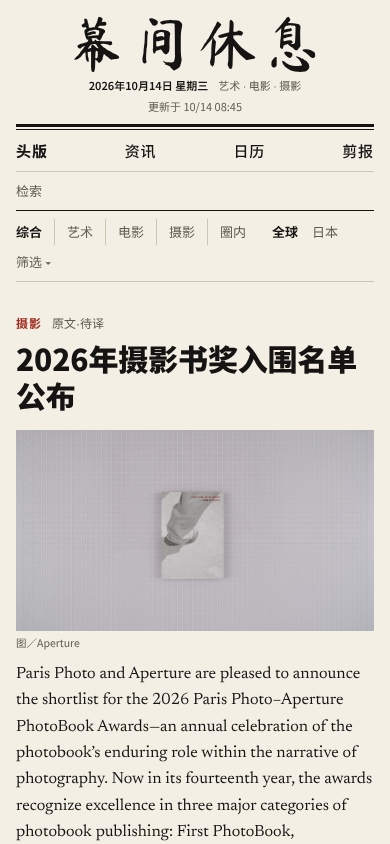
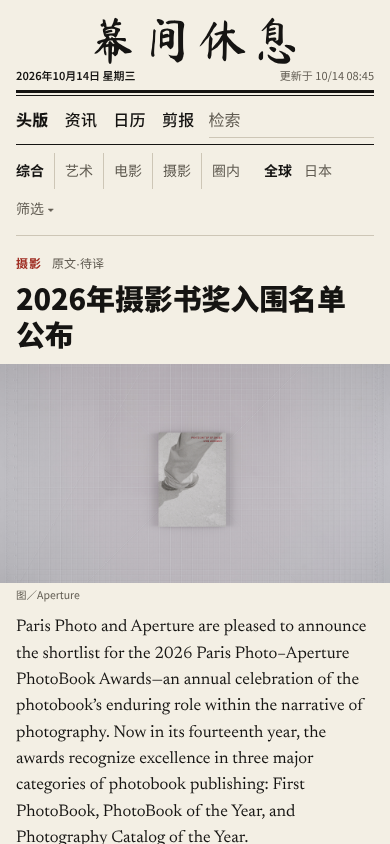
T039: Improve phone reading experience
Sticky section bar that hides while reading down and returns on scroll up,
reading progress line, list position restored after reading, thumbnail-right
story lists, full-bleed article images, 16px form controls against iOS zoom
and larger tap targets. Desktop layout unchanged.

Claude-Session: https://claude.ai/code/session_01QRydwVozSh6Dzffk4MZF67

diff --git a/frontend/app.js b/frontend/app.js
@@ -212,10 +212,10 @@
     const original = blocks.length ? `<div class="reader-document" lang="${e(row.language)}"><p class="reading-note">${row.article_author ? `作者：${e(row.article_author)} · ` : ''}来源：${e(sourceName(row))} · 正文采集于 ${e((row.article_fetched_at || '').slice(0,10))}</p>${partial ? '<p class="article-status">仅采集到公开可见的正文部分；来源的订阅内容或超出采集上限的内容未包含。</p>' : ''}${row.article_reason?.startsWith('cached_body_after_') ? '<p class="article-status">本次更新未成功，正在显示此前保存的原文。</p>' : ''}${headerImage}${newspaperBody(blocks)}</div>` : `<div class="original-unavailable" role="status"><h2>正文尚未取得</h2><p>${statusMessage}</p>${row.excerpt_original ? `<p class="reading-note">当前仅有来源短摘录：</p><p class="original-excerpt" lang="${e(row.language)}">${e(row.excerpt_original)}</p>` : ''}</div>`;
     let notes = []; try { notes = JSON.parse(row.editorial_notes_json || '[]'); } catch {}
     const chinese = translatedBlocks.length ? `<div class="reader-document" lang="zh-CN"><p class="reading-note">${row.language === 'zh' ? '来源原文为中文。' : !C.editorialReady(row) && C.machineReady(row) ? '自动机翻 · 免费离线模型 · 未经人工审核，专名与细节请对照原文。' : row.editorial_status === 'translated' ? 'AI 按全文语境翻译。' : 'AI 按全文语境翻译并校对 · 非人工译者审核。'}</p>${partial ? '<p class="article-status">来源仅取得公开部分，译文也仅包含这部分内容。</p>' : ''}${row.language !== 'zh' && notes.length ? `<div class="translation-notes"><h2>译名与表达说明</h2>${notes.map(note => `<p>${e(note)}</p>`).join('')}</div>` : ''}${headerImage}${newspaperBody(translatedBlocks, true)}</div>` : `<p class="article-status original-pending" role="status">${blocks.length ? `原文·待译 · 以下为${e(C.languageLabels[row.language] || '外文')}原文，中文译文尚未完成。` : '正文尚未取得。'}</p>${original}`;
-    return `<article class="reader-page"><div class="reader-toolbar"><button class="text-link" data-action="reader-back">‹ 返回</button><button class="text-link reader-save" data-save-type="content" data-save-id="${e(row.id)}">${saved ? '★ 已剪报' : '☆ 剪报'}</button></div><div class="eyebrow"><span class="channel-tag">${e(C.channels[row.channel] || '文化')}</span>${e(sourceName(row))} · ${e(publicationLabel(row))}</div>${(() => { const title = state.readerTab === 'original' ? row.title_original : C.displayTitle(row); return `<h1 lang="${e(title === row.title_original && row.language !== 'zh' ? row.language : 'zh-CN')}">${e(title)}</h1>`; })()}<div class="reader-tabs" role="tablist" aria-label="阅读内容"><button role="tab" aria-selected="${state.readerTab === 'chinese'}" data-reader-tab="chinese">${translatedBlocks.length ? '中文' : '正文'}</button><button role="tab" aria-selected="${state.readerTab === 'original'}" data-reader-tab="original">原文</button><button role="tab" aria-selected="${state.readerTab === 'info'}" data-reader-tab="info">资料</button></div><div class="reader-content" role="tabpanel">${state.readerTab === 'original' ? original : state.readerTab === 'chinese' ? chinese : `<div class="reader-information">${meta(row)}${C.priorityOf(row) ? `<p>重要程度：${e({high:'高',medium:'中',normal:'一般'}[C.priorityOf(row).importance])} · 翻译优先级：${e(C.priorityOf(row).label)} · ${e(C.priorityOf(row).reasons.join('；'))}</p>` : ''}<p>原始来源：${e(sourceName(row))} · ${e(C.languageLabels[row.language] || row.language)}</p>${dataset.content_events.filter(link => link.content_id === row.id).map(link => dataset.events.find(item => item.id === link.event_id)).filter(Boolean).map(item => eventRow(item)).join('') || '<p>这篇资讯没有关联的日历活动。</p>'}</div>`}</div>${!row.is_demo && url ? `<div class="reader-source-link"><span>原文</span><a href="${e(url)}" target="_blank" rel="noopener noreferrer">${e(url)}</a></div>` : ''}</article>`;
+    return `<article class="reader-page"><div class="reader-toolbar"><button class="text-link" data-action="reader-back">‹ 返回</button><button class="text-link reader-save" data-save-type="content" data-save-id="${e(row.id)}">${saved ? '★ 已剪报' : '☆ 剪报'}</button></div><div class="eyebrow"><span class="channel-tag">${e(C.channels[row.channel] || '文化')}</span>${e(sourceName(row))} · ${e(publicationLabel(row))}</div>${(() => { const title = state.readerTab === 'original' ? row.title_original : C.displayTitle(row); return `<h1 lang="${e(title === row.title_original && row.language !== 'zh' ? row.language : 'zh-CN')}">${e(title)}</h1>`; })()}<div class="reader-tabs" role="tablist" aria-label="阅读内容"><button role="tab" aria-selected="${state.readerTab === 'chinese'}" data-reader-tab="chinese">${translatedBlocks.length ? '中文' : '正文'}</button><button role="tab" aria-selected="${state.readerTab === 'original'}" data-reader-tab="original">原文</button><button role="tab" aria-selected="${state.readerTab === 'info'}" data-reader-tab="info">资料</button></div><div class="reader-content" role="tabpanel">${state.readerTab === 'original' ? original : state.readerTab === 'chinese' ? chinese : `<div class="reader-information">${meta(row)}${C.priorityOf(row) ? `<p>重要程度：${e({high:'高',medium:'中',normal:'一般'}[C.priorityOf(row).importance])} · 翻译优先级：${e(C.priorityOf(row).label)} · ${e(C.priorityOf(row).reasons.join('；'))}</p>` : ''}<p>原始来源：${e(sourceName(row))} · ${e(C.languageLabels[row.language] || row.language)}</p>${dataset.content_events.filter(link => link.content_id === row.id).map(link => dataset.events.find(item => item.id === link.event_id)).filter(Boolean).map(item => eventRow(item)).join('') || '<p>这篇资讯没有关联的日历活动。</p>'}</div>`}</div>${!row.is_demo && url ? `<div class="reader-source-link"><span>原文</span><a href="${e(url)}" target="_blank" rel="noopener noreferrer">${e(url)}</a></div>` : ''}<div class="reader-toolbar reader-end"><button class="text-link" data-action="reader-back">‹ 返回</button><button class="text-link reader-save" data-save-type="content" data-save-id="${e(row.id)}">${saved ? '★ 已剪报' : '☆ 剪报'}</button></div></article>`;
   }
   function openReader(id, route = true) {
-    if (state.view !== 'reader') state.readerReturn = state.view;
+    if (state.view !== 'reader') { state.readerReturn = state.view; state.readerScroll = window.scrollY; }
     state.readerId = id; state.readerTab = 'chinese'; state.view = 'reader';
     if ($('detail-dialog').open) $('detail-dialog').close();
     if (route) history.pushState(null, '', C.readerRoute(id));
@@ -252,7 +252,7 @@
         bookmarks.unshift(row);
       }
       const persisted = server || writeLocal();
-      if (state.view === 'reader') { nav(); const button = document.querySelector('.reader-save'); if (button) button.textContent = findBookmark('content', state.readerId) ? '★ 已剪报' : '☆ 剪报'; }
+      if (state.view === 'reader') { nav(); document.querySelectorAll('.reader-save').forEach(button => { button.textContent = findBookmark('content', state.readerId) ? '★ 已剪报' : '☆ 剪报'; }); }
       else render();
       if (persisted) toast(old ? '已移出剪报' : '已加入剪报');
       if ($('detail-dialog').open) showDetail($('detail-dialog').dataset.type, $('detail-dialog').dataset.recordId);
@@ -285,7 +285,7 @@
     else if (button.dataset.action === 'editorial-news') { state.view = 'explore'; state.editorialOnly = true; state.channel = state.kind = state.country = state.city = state.language = state.priority = 'all'; state.query = ''; $('search').value = ''; render(); }
     else if (button.dataset.action === 'all-news') { state.editorialOnly = false; state.priority = 'all'; state.view = 'explore'; render(); }
     else if (button.dataset.readerTab) { state.readerTab = button.dataset.readerTab; render(); }
-    else if (button.dataset.action === 'reader-back') { state.view = state.readerReturn || 'today'; render(); window.scrollTo({ top: 0 }); }
+    else if (button.dataset.action === 'reader-back') { state.view = state.readerReturn || 'today'; render(); window.scrollTo({ top: state.readerScroll || 0 }); }
     else if (button.dataset.channel) { state.channel = button.dataset.channel; state.kind = 'all'; render(); }
     else if (button.dataset.kind) { state.kind = state.kind === button.dataset.kind ? 'all' : button.dataset.kind; state.channel = 'all'; state.view = 'explore'; render(); }
     else if (button.dataset.detail) showDetail(button.dataset.type, button.dataset.detail);
@@ -370,7 +370,19 @@
   $('coordinate-button').addEventListener('click', () => { state.view = 'settings'; render(); });
   $('close-detail').addEventListener('click', () => $('detail-dialog').close());
   $('detail-dialog').addEventListener('click', event => { if (event.target === $('detail-dialog')) { const r = $('detail-dialog').getBoundingClientRect(); if (event.clientX < r.left || event.clientX > r.right || event.clientY < r.top || event.clientY > r.bottom) $('detail-dialog').close(); } });
-  window.addEventListener('hashchange', () => { if (location.hash === '#main') return; const route = C.parseRoute(location.hash); if (route.view === 'reader') openReader(route.id, false); else { state.view = route.view; render(); } });
+  window.addEventListener('hashchange', () => { if (location.hash === '#main') return; const route = C.parseRoute(location.hash); if (route.view === 'reader') openReader(route.id, false); else { const back = state.view === 'reader' && route.view === state.readerReturn; state.view = route.view; render(); if (back) window.scrollTo({ top: state.readerScroll || 0 }); } });
+  let lastScroll = 0, scrollFrame = 0;
+  window.addEventListener('scroll', () => {
+    if (scrollFrame) return;
+    scrollFrame = requestAnimationFrame(() => {
+      scrollFrame = 0;
+      const y = window.scrollY;
+      document.body.classList.toggle('bar-hidden', y > lastScroll + 4 && y > document.querySelector('.masthead').offsetHeight + 200 ? true : y < lastScroll - 4 ? false : document.body.classList.contains('bar-hidden'));
+      lastScroll = y;
+      const max = document.documentElement.scrollHeight - window.innerHeight;
+      document.querySelector('.read-progress span').style.transform = `scaleX(${state.view === 'reader' && max > 0 ? Math.min(1, y / max) : 0})`;
+    });
+  }, { passive: true });
   const initialRoute = C.parseRoute(location.hash); state.view = initialRoute.view; if (initialRoute.id) state.readerId = initialRoute.id;
   render();
 })();

diff --git a/frontend/theme.css b/frontend/theme.css
@@ -41,7 +41,7 @@ input[type=checkbox]{accent-color:var(--ink)}
 .ear{display:flex;flex-direction:column;gap:2px;font-family:var(--sans);font-size:12px;line-height:1.6;color:var(--ink);padding-bottom:8px}
 .ear-right{text-align:right;color:var(--muted)}
 #edition-date{font-weight:600}
-.paper-toolbar{display:flex;align-items:center;gap:24px;margin-top:2px;border-top:var(--rule-ink);border-bottom:var(--rule-ink);min-height:40px}
+.paper-toolbar{position:relative;display:flex;align-items:center;gap:24px;margin-top:2px;border-top:var(--rule-ink);border-bottom:var(--rule-ink);min-height:40px}
 #navigation{display:flex;gap:0}
 .nav-button{font-family:var(--sans);font-size:15px;font-weight:500;padding:8px 18px 8px 0;margin-right:18px;position:relative;letter-spacing:.06em}
 .nav-button+.nav-button::before{content:'';position:absolute;left:-18px;top:13px;bottom:13px;border-left:var(--rule)}
@@ -339,55 +339,115 @@ footer{display:flex;align-items:baseline;justify-content:space-between;gap:16px;
   .reader-page h1{font-size:38px}
   .reader-page h1:not([lang^=zh]){font-size:42px}
 }
-/* Phone */
+/* Phone: compact masthead, a sticky section bar that steps aside while reading,
+   thumbnail story lists and a calm single-column article. */
+.read-progress{display:none}
 @media(max-width:600px){
-  :root{--paper-gutter:16px;--headline-size:30px}
-  .masthead{padding-top:10px}
-  .nameplate{grid-template-columns:1fr;justify-items:center;gap:4px;padding-bottom:8px}
-  .brand{font-size:clamp(46px,15vw,64px);order:0}
-  .ear{flex-direction:row;gap:10px;padding:0;font-size:11px;order:1}
-  .ear-left span{color:var(--muted)}
-  .ear-right{order:2}
-  .ear-right:empty{display:none}
-  .paper-toolbar{flex-wrap:wrap;gap:0}
-  #navigation{width:100%;justify-content:space-between}
-  .nav-button{padding:8px 0;margin:0;font-size:15px}
+  :root{--paper-gutter:16px;--headline-size:29px}
+  html{-webkit-tap-highlight-color:transparent}
+  .masthead{padding-top:12px}
+  .nameplate{grid-template-columns:1fr 1fr;gap:2px 8px;padding-bottom:6px;align-items:baseline}
+  .brand{grid-column:1/-1;grid-row:1;justify-self:center;font-size:clamp(40px,12.5vw,52px)}
+  .ear{grid-row:2;flex-direction:row;padding:0;font-size:11px}
+  .ear-left span{display:none}
+  .ear-right{justify-content:flex-end}
+  .paper-toolbar{position:sticky;top:0;z-index:20;background:var(--paper);gap:14px;min-height:44px;transition:transform .22s ease}
+  body.bar-hidden .paper-toolbar{transform:translateY(-110%)}
+  #navigation{gap:16px}
+  .nav-button{padding:10px 0;margin:0;font-size:16px;letter-spacing:.02em}
   .nav-button+.nav-button::before{display:none}
-  .topbar{width:100%;margin:0;border-top:var(--rule);padding:4px 0}
-  .search-field{flex:1}
-  .search-field input{width:100%;border-bottom:0}
-  .filters{gap:6px 14px}
-  .scope-links{margin-left:0}
-  .broadsheet{display:flex;flex-direction:column;padding-top:12px}
+  .nav-count{display:none}
+  .topbar{flex:1;min-width:0;margin:0}
+  .search-field{flex:1;min-width:0}
+  .search-field input{width:100%;font-size:16px;padding:4px 0;border-bottom-color:var(--line)}
+  input,select,textarea{font-size:16px}
+  .filter-selects select{font-size:15px}
+  .read-progress{display:block;position:absolute;left:0;right:0;bottom:-1px;height:2px;pointer-events:none}
+  .read-progress span{display:block;height:100%;background:var(--accent);transform:scaleX(0);transform-origin:left}
+
+  .filters{gap:2px 14px;font-size:14px;margin-bottom:14px}
+  .tab{padding:6px 10px}
+  .scope-links{margin-left:0;gap:12px}
+  .scope-links .text-link,.advanced-filters>summary{font-size:14px;padding:6px 0}
+  .filter-selects{gap:12px}
+
+  .broadsheet{display:flex;flex-direction:column;padding-top:4px}
   .lead-column{order:0;padding:0}
-  .brief-column{order:1;padding:0;border:0;margin-top:22px}
-  .focus-column{order:2;display:block;margin-top:22px}
-  .focus-column>.content-card:nth-child(n){padding:14px 0 16px;border-left:0;border-bottom:var(--rule)}
-  .feature h2{line-height:1.22}
+  .brief-column{order:2;padding:0;border:0;margin-top:26px}
+  .focus-column{order:1;display:block;margin-top:22px;padding:0;border:0}
+  .feature h2{line-height:1.24;margin-bottom:12px}
   .feature h2:not([lang^=zh]){line-height:1.1}
-  .feature-summary{font-size:16px}
+  .feature figure.feature-art{margin:0 -16px 12px}
+  .feature-art .image-caption{padding:4px 16px 0}
+  .feature-summary{font-size:16.5px;line-height:1.8}
+  .feature-columns:not([lang^=zh]) .feature-summary{font-size:17px;line-height:1.55}
   .feature-summary:nth-child(n+3){display:none}
-  .second-stories{grid-template-columns:1fr}
-  .second-stories .content-card+.content-card{padding-left:0;margin-left:0;border-left:0;border-top:var(--rule);margin-top:14px;padding-top:14px}
-  .content-card h3{font-size:20px}
-  .card-summary{font-size:15px}
+  .second-stories{display:block;margin-top:20px}
+  .second-stories .content-card+.content-card{padding-left:0;margin-left:0;border-left:0;border-top:var(--rule)}
+  .second-stories .content-card{padding:14px 0}
+
+  /* Stories in lists: headline first, small picture on the right. */
+  .content-card{padding:14px 0}
+  .content-card.has-art .card-art{float:right;width:34%;max-width:132px;margin:2px 0 6px 14px}
+  .content-card.has-art .card-art .source-art{aspect-ratio:1}
+  .content-card.has-art .image-caption{font-size:9.5px;line-height:1.35}
+  .content-card h3,.second-stories .content-card h3{font-size:19px;line-height:1.38}
+  .content-card h3:not([lang^=zh]){font-size:20px;line-height:1.2}
+  .brief-column .content-card h3{font-size:18px}
+  .card-summary{font-size:15px;line-height:1.7;-webkit-line-clamp:3;text-align:left}
+  .card-summary:not([lang^=zh]){font-size:15.5px;line-height:1.5}
+  .card-footer{clear:both;margin-top:6px}
+  .save-button{min-width:44px;min-height:36px;margin:-10px -12px -10px auto;padding:0 12px;font-size:18px;text-align:center}
   .card-grid{grid-template-columns:1fr}
-  .card-grid>.content-card:nth-child(n){border-left:0;padding:14px 0 16px}
+  .card-grid>.content-card:nth-child(n){border-left:0;padding:14px 0}
+  .focus-column>.content-card:nth-child(n){padding:14px 0;border-left:0;border-bottom:var(--rule)}
+  .news-strip{margin-top:26px}
+  .news-pagination{font-size:14px}
+  .news-pagination .text-link{font-size:14px;padding:10px 0}
+  .agenda-item{padding:12px 0}
+
+  .page-heading{padding-top:16px}
   .page-heading h1{font-size:26px}
-  .calendar-day{min-height:58px;padding:3px}
+  .calendar-day{min-height:56px;padding:3px}
   .calendar-dot{font-size:9px;padding-left:3px}
-  .reader-page{padding-top:12px}
-  .reader-page h1{font-size:28px;line-height:1.3}
-  .reader-page h1:not([lang^=zh]){font-size:32px}
-  .article-columns{column-count:1}
-  .reader-document{font-size:17px}
+  .event-row h3{font-size:16px}
+
+  /* Article */
+  .reader-page{padding-top:6px}
+  .reader-toolbar .text-link{font-size:15px;padding:10px 0}
+  .reader-page .eyebrow{padding-top:10px}
+  .reader-page h1{font-size:27px;line-height:1.32;margin:8px 0 14px}
+  .reader-page h1:not([lang^=zh]){font-size:30px;line-height:1.12}
+  .reader-tabs{font-size:15px}
+  .reader-tabs button{padding:9px 16px}
+  .original-pending{margin-top:12px}
+  .reader-document{font-size:18px;line-height:1.85;padding-top:10px}
+  .reader-document:not([lang^=zh]){font-size:18.5px;line-height:1.58}
+  .reader-document p{margin-bottom:1.05em}
+  .reader-document h2,.article-heading{font-size:20px}
+  .article-columns{column-count:1;margin:10px 0 0;text-align:left}
+  .article-columns+.article-columns{padding-top:0;border-top:0}
+  .reader-document[lang^=zh] .article-columns{text-align:justify}
+  .article-image{margin:4px -16px 18px}
+  .article-image img{max-height:none;width:100%}
+  .article-image figcaption{padding:5px 16px 0}
+  .reader-cover{margin:0 -16px 16px}
+  .reader-cover .image-caption{padding:4px 16px 0}
+  .article-references{font-size:13px;margin:-8px 0 14px}
+  .reader-source-link{flex-direction:column;gap:2px;margin-top:20px}
+  .reader-end{margin-top:12px;border-top:var(--rule-ink)}
+
   .coverage-stats strong{font-size:24px}
   .coverage-source summary{flex-direction:column;gap:2px}
-  .reader-source-link{flex-direction:column;gap:2px}
   dialog{padding:18px 16px 22px}
   .detail-title{font-size:22px}
-  footer{flex-direction:column;align-items:center;gap:6px}
+  footer{flex-direction:column;align-items:center;gap:6px;padding-bottom:calc(28px + env(safe-area-inset-bottom))}
+  .footer-links .text-link{font-size:14px;padding:6px 0}
+  #toast{bottom:calc(20px + env(safe-area-inset-bottom))}
 }
+@media(max-width:600px) and (prefers-reduced-motion:reduce){.paper-toolbar{transition:none}}
+.reader-end{display:none}
+@media(max-width:860px){.reader-end{display:flex;padding-top:10px}}
 @media print{
   html,body{background:#fff}
   .paper-toolbar,.filters,.reader-toolbar,.reader-tabs,.save-button,.news-pagination,footer{display:none}

diff --git a/frontend/index.html b/frontend/index.html
@@ -24,11 +24,12 @@
         <a class="brand" href="#today" aria-label="幕间休息首页">幕间休息</a>
         <div class="ear ear-right"><span id="edition-updated"></span></div>
       </div>
-      <div class="paper-toolbar">
-        <nav aria-label="主要导航" id="navigation"></nav>
-        <div class="topbar"><label class="search-field"><input id="search" type="search" placeholder="检索" aria-label="搜索资讯"></label><button class="refresh-control text-link" data-action="refresh" aria-label="刷新资讯" hidden>刷新</button><button class="profile text-link" id="inbox-button" data-action="inbox" aria-label="收藏活动提醒" hidden>提醒</button></div>
-      </div>
     </header>
+    <div class="paper-toolbar">
+      <nav aria-label="主要导航" id="navigation"></nav>
+      <div class="topbar"><label class="search-field"><input id="search" type="search" placeholder="检索" aria-label="搜索资讯"></label><button class="refresh-control text-link" data-action="refresh" aria-label="刷新资讯" hidden>刷新</button><button class="profile text-link" id="inbox-button" data-action="inbox" aria-label="收藏活动提醒" hidden>提醒</button></div>
+      <div class="read-progress" aria-hidden="true"><span></span></div>
+    </div>
     <main id="main" tabindex="-1"></main>
     <footer><span class="footer-brand">幕间休息</span><span id="edition-note" hidden></span><span class="footer-links"><a class="text-link" href="#coverage">收录与译文</a><button id="coordinate-button" class="text-link">阅读设置</button></span></footer>
   </div>

diff --git a/docs/HANDOFF.md b/docs/HANDOFF.md
@@ -259,3 +259,12 @@ T036公开已验收done：实现d55db4d；CI https://github.com/k1ryulong6-sourc
 - 收藏在界面上称“剪报”（☆/★），存储仍为culture-desk-v1 schema 1。
 
 验证见tasks.json T038。参考截图已更新：docs/images/newspaper-*.png。下一步：可以给“更多报道”加频道分栏标题；事件日历格内的重复“展览”字样可以改为按场馆或标题缩写显示（需另建任务，涉及展示规则）。
+
+## T039 · 手机端阅读体验（Claude）· 2026-10-14
+
+- 导航条`.paper-toolbar`移出`<header>`（仍紧跟报头，桌面外观不变），手机端吸顶；下滑阅读时隐藏、上滑出现；阅读页底边有2px阅读进度线（`.read-progress`）。
+- 手机报头：站名一行，日期与更新时间一行；导航四项与检索框同一行，筛选行压缩。
+- 从列表进入文章时记录滚动位置；文末“‹ 返回”、顶部返回和浏览器后退都回到原位置。文末重复“返回／剪报”（≤860px显示）。
+- 手机列表：报道标题优先、方形小图居右（图注仍显示来源），摘要3行、左对齐（避免中英混排两端对齐的大空隙）。头条与文章图片通栏。
+- 表单控件16px防iOS聚焦缩放；☆点击区44×36；页脚与提示适配安全区。
+- 验证见tasks.json T039。

diff --git a/docs/UI_CUSTOMIZATION.md b/docs/UI_CUSTOMIZATION.md
@@ -92,3 +92,7 @@ browser_snapshot只精简传输副本，data/live.json为完整档案；article_
 ## T038 · 报纸版面 v4（当前）
 
 theme.css已整体重写为v4：令牌在`:root`（新增`--latin`用于外文原文、`--rule`/`--rule-ink`栏线）；styles.css只保留重置与可访问性基础。CultureUI v1新增`brief(row)`（无图简讯），`card(row, showStatus, {art:false})`可关图；卡片标题/摘要、头条正文带`lang`，CSS用`:not([lang^=zh])`切换外文排印。收藏按钮改在卡片底栏（仍是链接的兄弟元素）。`artwork()`无来源图时返回空字符串，不再生成示意图；图片失败时隐藏`.card-art/.feature-art/.reader-cover/.detail-art`。报头新增`#edition-updated`；`#coordinate-button`在页脚；`.refresh-control`与`#inbox-button`仅本地API显示。
+
+## T039 · 手机阅读
+
+`.paper-toolbar`现为`.masthead`之后的兄弟元素（`#navigation`/`#search`等ID不变），手机端`position:sticky`；app.js滚动监听只切换`body.bar-hidden`和`.read-progress span`的scaleX，不改数据。`state.readerScroll`保存进入文章前的列表位置。手机样式集中在theme.css的“Phone”段。
